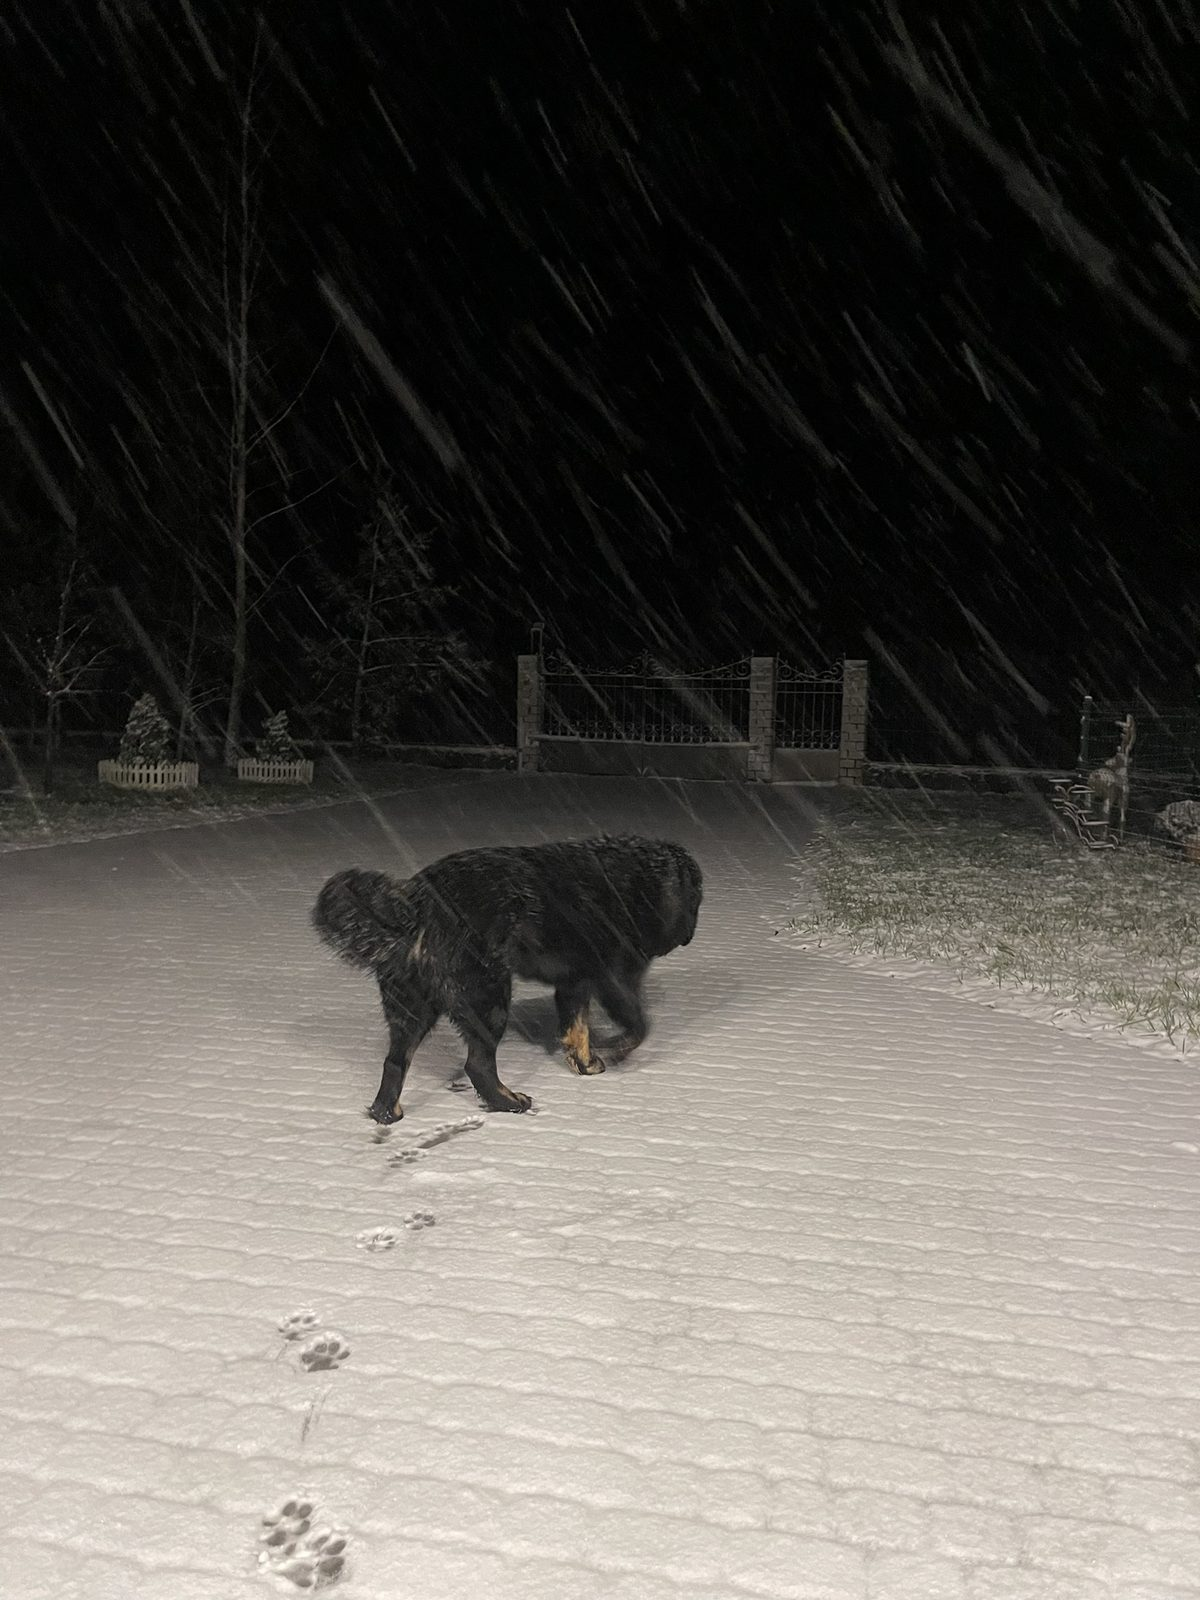
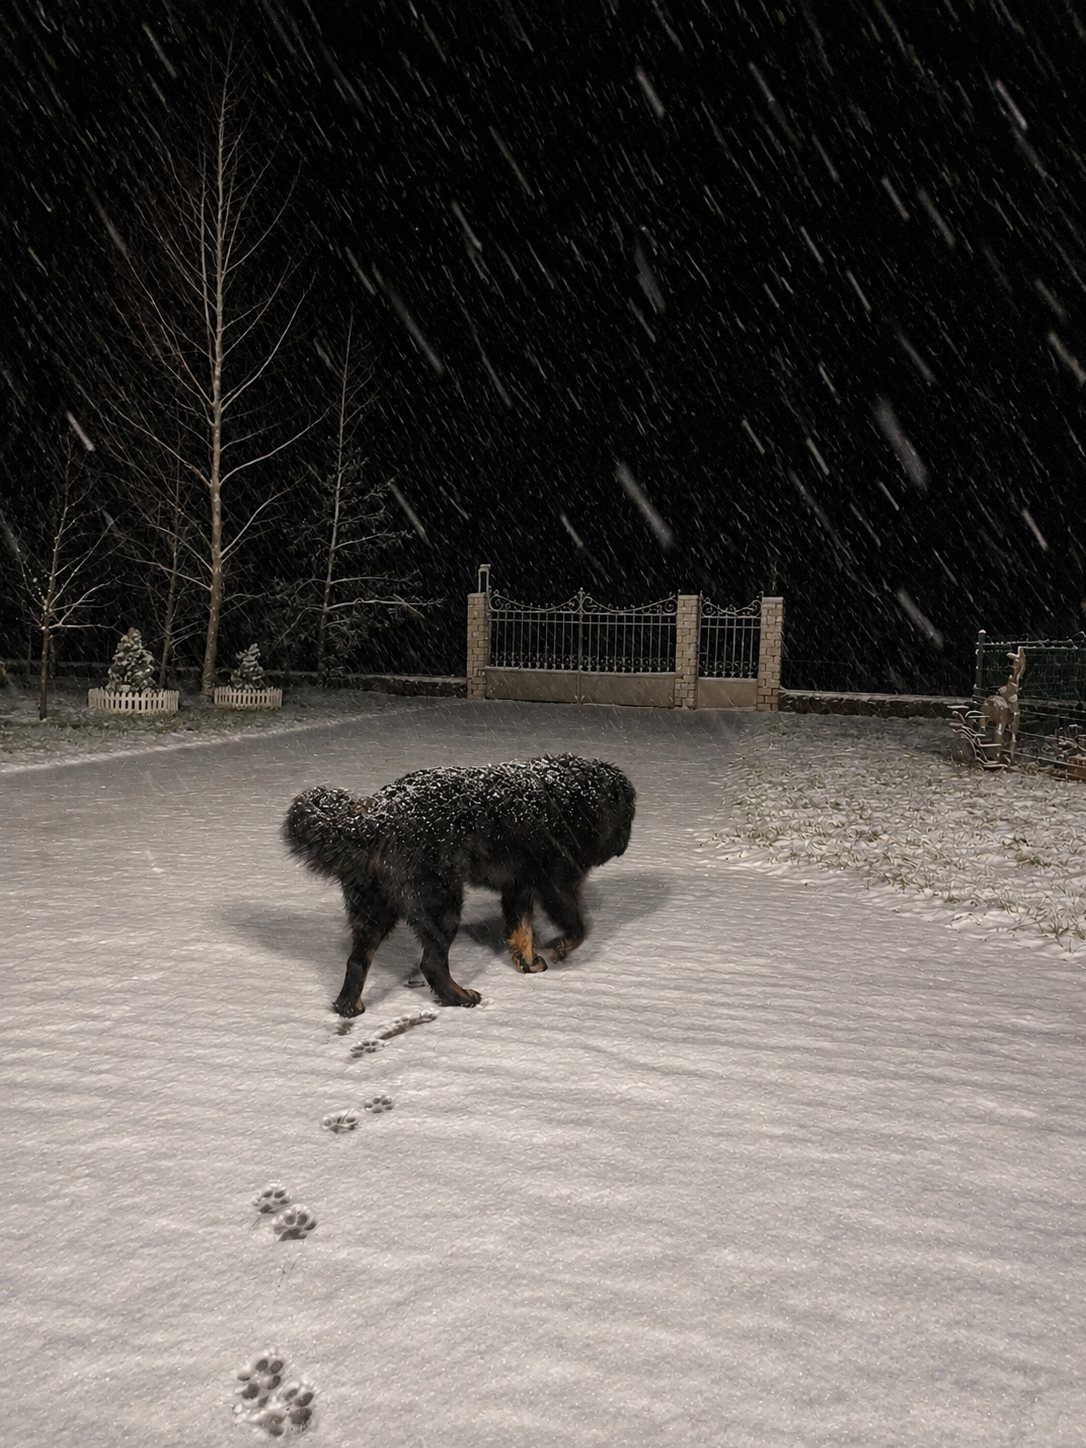
Use enhanced photos and add multi-photo collages
Swap in the higher-quality sleep, energy and gate photos, add two
new ones, and show them as collages: a main photo with an inset on
the basics slide and two tilted polaroids (day shift / night shift)
on the bark slide.

Claude-Session: https://claude.ai/code/session_01WDJdvujbBFqHhNhqrWN5m4

diff --git a/styles.css b/styles.css
@@ -387,13 +387,79 @@ button { font: inherit; color: inherit; }
   padding: 12px 0 16px;
 }
 
+/* ---------- Collages: several photos on one slide ---------- */
+.collage {
+  --cr: 1;                 /* width / height of the whole collage */
+  position: relative;
+  width: min(100cqw, calc(100cqh * var(--cr)));
+  aspect-ratio: var(--cr);
+}
+.collage .frame {
+  position: absolute;
+  height: auto;
+}
+
+/* duo: big main photo + smaller one overlapping the corner */
+.collage--duo { --cr: .95; }
+.collage--duo .frame--main {
+  --r: .75;
+  left: 0;
+  top: 0;
+  width: 69%;
+}
+.collage--duo .frame--inset {
+  --r: .8;
+  --radius: 24px;
+  right: 0;
+  bottom: 0;
+  width: 44%;
+  z-index: 2;
+  box-shadow:
+    0 0 0 6px var(--bg),
+    0 30px 70px -20px rgba(0, 0, 0, .8),
+    0 40px 100px -40px color-mix(in srgb, var(--accent) 80%, transparent);
+}
+
+/* two tilted polaroids */
+.collage--polaroids { --cr: 1.05; }
+.collage .frame--polaroid { --r: .78; }
+.collage--polaroids .frame--p1 {
+  left: 2%;
+  top: 3%;
+  width: 57%;
+  rotate: -6deg;
+}
+.collage--polaroids .frame--p2 {
+  right: 2%;
+  bottom: 2%;
+  width: 52%;
+  rotate: 5deg;
+  z-index: 2;
+}
+.collage .frame__caption { font-size: clamp(.55rem, 3.4cqw, 1.25rem); white-space: nowrap; }
+
+/* the second photo of a collage arrives a little later */
+.collage .frame:nth-child(2) {
+  opacity: 0;
+  translate: 24px 24px;
+  transition: opacity .4s ease, translate .6s var(--ease);
+}
+.slide.is-active .collage .frame:nth-child(2) {
+  opacity: 1;
+  translate: 0 0;
+  transition: opacity .8s ease .55s, translate 1.2s var(--ease) .55s;
+}
+.slide.is-active .collage .frame:nth-child(2) img { transition-delay: .55s; }
+
 /* keep Parker in view inside every crop */
 #hello  .frame img { object-position: 50% 35%; }
-#basics .frame img { object-position: 48% 50%; }
+#basics .frame--main img  { object-position: 50% 50%; }
+#basics .frame--inset img { object-position: 50% 60%; }
 #sleep  .frame img { object-position: 50% 57%; }
 #food   .frame img { object-position: 50% 35%; }
 #energy .frame img { object-position: 50% 70%; }
-#bark   .frame img { object-position: 55% 80%; }
+#bark   .frame--p1 img { object-position: 70% 85%; }
+#bark   .frame--p2 img { object-position: 50% 75%; }
 
 /* ---------- Hero ---------- */
 .scroll-hint {
@@ -726,7 +792,9 @@ button { font: inherit; color: inherit; }
     width: min(calc(100cqw - 24px), calc(100cqh - 24px));
     outline-offset: 8px;
   }
-  .frame--polaroid { padding: 10px 10px 0; rotate: -3deg; }
+  .frame--polaroid { padding: 7px 7px 0; }
+  .collage .frame__caption { padding: 5px 0 7px; }
+  .collage--duo .frame--inset { box-shadow: 0 0 0 4px var(--bg), 0 20px 50px -20px rgba(0, 0, 0, .8); }
   .frame__caption { padding: 8px 0 10px; font-size: 1rem; }
 
   .slide__text { order: 1; flex: 0 0 auto; max-width: none; }

diff --git a/index.html b/index.html
@@ -66,8 +66,13 @@
         </dl>
       </div>
       <figure class="slide__photo anim">
-        <div class="frame frame--tall">
-          <img src="photos/breed.jpg" alt="Parker sitting proudly in a snowy forest" decoding="async">
+        <div class="collage collage--duo">
+          <div class="frame frame--main">
+            <img src="photos/night.jpg" alt="Parker sitting tall in the snow at night, showing his tan markings and white chest" decoding="async">
+          </div>
+          <div class="frame frame--inset">
+            <img src="photos/breed.jpg" alt="Parker sitting proudly in a sunny snowy forest" decoding="async">
+          </div>
         </div>
       </figure>
     </section>
@@ -137,13 +142,19 @@
       <div class="slide__text">
         <p class="eyebrow anim">05 — The voice</p>
         <h2 class="title anim">The legendary <span class="hl">bark.</span></h2>
-        <p class="lead anim">Deep, loud and somehow completely hilarious. Nobody gets past the gate unannounced — and nobody keeps a straight face once he gets going.</p>
+        <p class="lead anim">Deep, loud and somehow completely hilarious. Day shift or night shift, nobody gets past the gate unannounced — and nobody keeps a straight face once he gets going.</p>
         <button class="btn anim" type="button" id="barkBtn">🔊 Make him bark</button>
       </div>
       <figure class="slide__photo anim">
-        <div class="frame frame--polaroid" id="barkPhoto">
-          <img src="photos/bark.jpg" alt="Parker sitting by the gate with his tongue out" decoding="async">
-          <span class="frame__caption" aria-hidden="true">woof.</span>
+        <div class="collage collage--polaroids" id="barkPhoto">
+          <div class="frame frame--polaroid frame--p1">
+            <img src="photos/bark.jpg" alt="Parker guarding the gate on a sunny autumn day, tongue out" decoding="async">
+            <span class="frame__caption" aria-hidden="true">day shift.</span>
+          </div>
+          <div class="frame frame--polaroid frame--p2">
+            <img src="photos/home.jpg" alt="Parker guarding the house at night, tongue out" decoding="async">
+            <span class="frame__caption" aria-hidden="true">night shift.</span>
+          </div>
         </div>
       </figure>
     </section>

diff --git a/README.md b/README.md
@@ -20,11 +20,11 @@
 | # | Адрес      | Тема                              | Фото               |
 |---|------------|-----------------------------------|--------------------|
 | 1 | `#hello`   | Meet Parker                       | `photos/hero.jpg`  |
-| 2 | `#basics`  | Порода, возраст, вес              | `photos/breed.jpg` |
+| 2 | `#basics`  | Порода, возраст, вес              | `photos/night.jpg` + `photos/breed.jpg` |
 | 3 | `#sleep`   | Любит спать, невозможно разбудить | `photos/sleep.jpg` |
 | 4 | `#food`    | Ест как слон, обожает вкусняшки   | `photos/food.jpg`  |
 | 5 | `#energy`  | Очень энергичный                  | `photos/energy.jpg`|
-| 6 | `#bark`    | Угарно гавкает (кнопка с «гав»)   | `photos/bark.jpg`  |
+| 6 | `#bark`    | Угарно гавкает (кнопка с «гав»)   | `photos/bark.jpg` + `photos/home.jpg` (полароиды) |
 | 7 | `#treat`   | «Дай Паркеру вкусняшку» — счётчик | —                  |
 
 ## Как поменять
